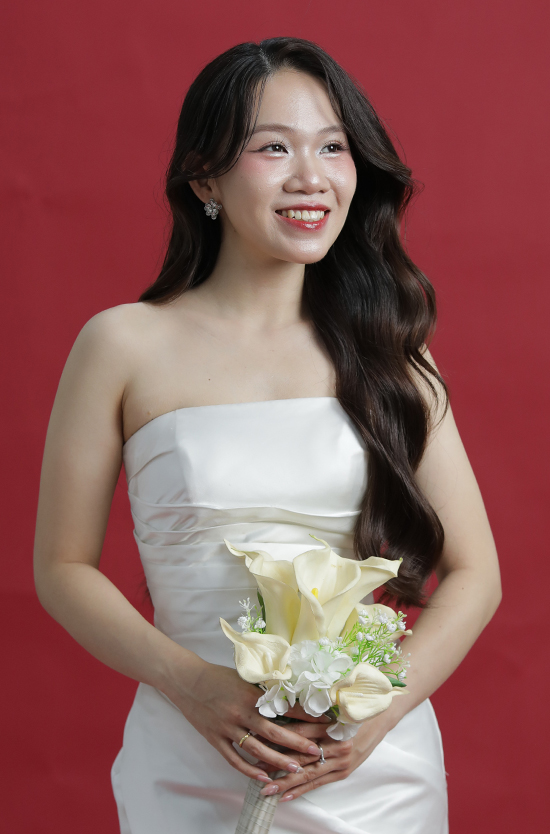
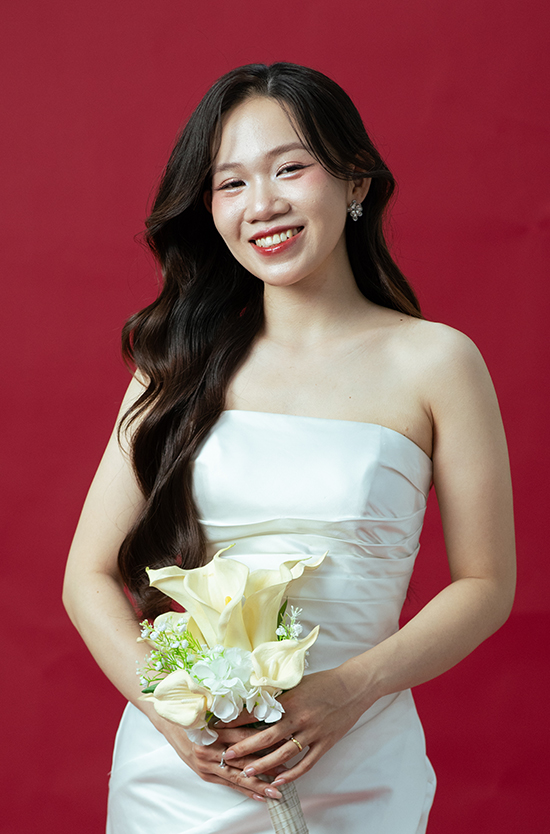
update hình, chờ nhạc nền

diff --git a/dananh-100526/index.html b/dananh-100526/index.html
@@ -6509,6 +6509,17 @@
                 >
               </div>
               <div class="service-item">
+                <strong>Song Ngư Homestay</strong>
+                <p>~5p để di chuyển đến tiệc. Đủ tiện nghi để nghỉ ngơi</p>
+                <a href="tel:0975124848" class="service-link">🤙 Đặt chỗ</a>
+                <a
+                  href="https://maps.app.goo.gl/PZRbGzu6aNqnHauk8"
+                  target="_blank"
+                  class="service-link map-btn"
+                  >📍 Vị trí</a
+                >
+              </div>
+              <div class="service-item">
                 <strong>Khách sạn Lion 11</strong>
                 <p>
                   ~30p để di chuyển đến tiệc. Cao cấp, gần trung tâm TP, Bến
@@ -7811,9 +7822,10 @@
     <title>Toggle Music với Icon Tròn Xoay</title>
     <style>
       /* Nút tròn, nền đen mờ */
+      /* Nút tròn, nền đen mờ */
       #toggle-music {
         position: fixed;
-        bottom: 20px;
+        bottom: 50px; /* Đã dời lên cao hơn xíu */
         left: 20px;
         width: 40px;
         height: 40px;
@@ -7831,6 +7843,22 @@
       }
       #toggle-music:hover {
         background: rgba(0, 0, 0, 0.5);
+      }
+
+      /* Khung chữ đếm ngược */
+      #music-countdown {
+        position: fixed;
+        bottom: 58px; /* Căn giữa so với cái nút */
+        left: 70px; /* Nằm ngay bên phải cái nút */
+        background: rgba(0, 0, 0, 0.6);
+        color: white;
+        padding: 4px 12px;
+        border-radius: 20px;
+        font-family: "Open Sans", sans-serif;
+        font-size: 12px;
+        z-index: 1000;
+        pointer-events: none; /* Không cản trở nếu lỡ bấm trúng */
+        transition: opacity 0.5s ease;
       }
 
       /* Keyframes xoay */
@@ -7873,13 +7901,18 @@
 
     <!-- Toggle button -->
     <button id="toggle-music" aria-label="Bật/tắt nhạc">🔇</button>
+    <div id="music-countdown">Nhạc nền sau 5s</div>
 
     <script>
       document.addEventListener("DOMContentLoaded", function () {
         const audio = document.getElementById("background-music");
         const btn = document.getElementById("toggle-music");
+        const countdownEl = document.getElementById("music-countdown");
 
         audio.volume = 0.8;
+        let timeLeft = 5; // Set 5 giây
+        let timer = null;
+        let isMusicHandled = false;
 
         function startRotate() {
           btn.style.animation = "rotate 2s linear infinite";
@@ -7888,8 +7921,42 @@
           btn.style.animation = "none";
         }
 
-        // Khi user click button thì toggle play/pause
+        // Bắt đầu đếm ngược
+        function startCountdown() {
+          timer = setInterval(() => {
+            timeLeft--;
+            if (countdownEl) {
+              countdownEl.textContent = `Nhạc nền sau ${timeLeft}s`;
+            }
+
+            // Khi hết 5 giây
+            if (timeLeft <= 0) {
+              clearInterval(timer);
+              if (countdownEl) countdownEl.style.opacity = "0"; // Ẩn dòng chữ đi
+
+              if (!isMusicHandled && audio.paused) {
+                audio
+                  .play()
+                  .then(() => {
+                    btn.textContent = "🔊";
+                    startRotate();
+                    isMusicHandled = true;
+                  })
+                  .catch(() => {
+                    /* Nếu khách chưa tương tác (chạm/vuốt màn hình) thì trình duyệt sẽ chặn tự động phát. 
+                     Không sao, khi khách lướt web hệ thống sẽ tự phát ở event bên dưới. */
+                  });
+              }
+            }
+          }, 1000);
+        }
+
+        // Nếu khách chủ động bấm nút LOA trước khi hết 5 giây
         btn.addEventListener("click", () => {
+          isMusicHandled = true;
+          clearInterval(timer); // Hủy đếm ngược
+          if (countdownEl) countdownEl.style.opacity = "0"; // Ẩn chữ ngay lập tức
+
           if (audio.paused) {
             audio.play();
             btn.textContent = "🔊";
@@ -7901,23 +7968,28 @@
           }
         });
 
-        // Đảm bảo autoplay khi user lần đầu tương tác (nếu cần)
-        function tryPlay() {
-          if (audio.paused) {
+        // Bắt đầu đếm ngược ngay khi web load xong
+        startCountdown();
+
+        // Dự phòng: Nếu sau 5s mà web bị trình duyệt chặn phát nhạc (do khách chưa chạm tay vào màn hình)
+        // thì ngay khi khách vuốt/chạm lần đầu, nhạc sẽ tự động nổi lên.
+        function playOnFirstInteract() {
+          if (!isMusicHandled && timeLeft <= 0 && audio.paused) {
             audio
               .play()
               .then(() => {
                 btn.textContent = "🔊";
                 startRotate();
+                isMusicHandled = true;
               })
-              .catch(() => {
-                /* bị chặn thì thôi */
-              });
+              .catch(() => {});
           }
         }
-        window.addEventListener("scroll", tryPlay, { once: true });
-        document.addEventListener("click", tryPlay, { once: true });
-        document.addEventListener("touchstart", tryPlay, { once: true });
+        window.addEventListener("scroll", playOnFirstInteract, { once: true });
+        document.addEventListener("touchstart", playOnFirstInteract, {
+          once: true,
+        });
+        document.addEventListener("click", playOnFirstInteract, { once: true });
       });
     </script>
 
@@ -8079,234 +8151,6 @@
       }
     </script>
 
-    <div id="invitation-btn" title="Mở thiệp mời">
-      <div class="btn-icon">💌</div>
-      <span>Mở Thiệp</span>
-    </div>
-
-    <div id="invitation-popup">
-      <div class="popup-overlay"></div>
-
-      <div class="scene">
-        <div class="card-wrapper" id="wedding-card">
-          <div
-            class="face-front"
-            style="background-image: url(&quot;scr/img/thiep_truoc.jpg&quot;)"
-          >
-            <div class="click-hint">Chạm để lật mặt sau 👉</div>
-          </div>
-
-          <div class="face-back">
-            <div
-              class="inner-mid"
-              style="background-image: url(&quot;scr/img/thiep_trong.jpg&quot;)"
-            ></div>
-
-            <div class="flap bottom-panel">
-              <div
-                class="flap-face flap-outer"
-                style="background-image: url(&quot;scr/img/thiep_sau.jpg&quot;)"
-              ></div>
-              <div
-                class="flap-face flap-inner"
-                style="
-                  background-image: url(&quot;scr/img/thiep_trong.jpg&quot;);
-                "
-              ></div>
-            </div>
-
-            <div class="flap top-flap">
-              <div
-                class="flap-face flap-outer"
-                style="
-                  background-image: url(&quot;scr/img/thiep_truoc_nap.jpg&quot;);
-                "
-              ></div>
-              <div
-                class="flap-face flap-inner"
-                style="
-                  background-image: url(&quot;scr/img/thiep_trong.jpg&quot;);
-                "
-              ></div>
-            </div>
-          </div>
-        </div>
-      </div>
-
-      <button class="close-popup" id="close-invitation">&times;</button>
-    </div>
-
-    <style>
-      /* CSS CƠ BẢN */
-      #invitation-btn {
-        position: fixed;
-        bottom: 80px;
-        right: 20px;
-        z-index: 999;
-        background: rgb(128, 0, 32);
-        color: white;
-        padding: 10px 20px;
-        border-radius: 50px;
-        display: flex;
-        align-items: center;
-        gap: 10px;
-        cursor: pointer;
-        box-shadow: 0 4px 15px rgba(0, 0, 0, 0.3);
-        font-family: sans-serif;
-        font-weight: bold;
-      }
-
-      #invitation-popup {
-        position: fixed;
-        top: 0;
-        left: 0;
-        width: 100vw;
-        height: 100vh;
-        display: none;
-        justify-content: center;
-        align-items: center;
-        z-index: 10000;
-        transition: opacity 0.5s ease;
-      }
-
-      .popup-overlay {
-        position: absolute;
-        width: 100%;
-        height: 100%;
-        background: rgba(0, 0, 0, 0.85);
-        backdrop-filter: blur(4px);
-      }
-
-      /* KHÔNG GIAN 3D */
-      .scene {
-        width: 340px;
-        height: 240px;
-        perspective: 1500px;
-        z-index: 10001;
-      }
-      .card-wrapper {
-        width: 100%;
-        height: 100%;
-        position: relative;
-        transform-style: preserve-3d;
-        transition: transform 0.8s cubic-bezier(0.4, 0, 0.2, 1);
-      }
-
-      .face-front,
-      .face-back {
-        position: absolute;
-        width: 100%;
-        height: 100%;
-        backface-visibility: hidden;
-        border-radius: 4px;
-      }
-      .face-front {
-        background-size: cover;
-        z-index: 2;
-        box-shadow: 0 10px 30px rgba(0, 0, 0, 0.5);
-      }
-      .face-back {
-        transform: rotateY(180deg);
-        transform-style: preserve-3d;
-      }
-
-      .card-wrapper.flipped {
-        transform: rotateY(180deg);
-      }
-
-      /* MẶT TRONG GIỮA */
-      .inner-mid {
-        position: absolute;
-        width: 100%;
-        height: 100%;
-        background-size: 100% 250%;
-        background-position: center; /* 1/2.5 */
-      }
-
-      /* CÁC CÁNH GẬP */
-      .flap {
-        position: absolute;
-        width: 100%;
-        left: 0;
-        top: 0;
-        transform-style: preserve-3d;
-        transition: transform 0.8s cubic-bezier(0.4, 0, 0.2, 1);
-      }
-
-      .top-flap {
-        height: 50%;
-        transform-origin: top;
-        z-index: 10;
-      } /* Nắp đè lên */
-      .bottom-panel {
-        height: 100%;
-        transform-origin: bottom;
-        z-index: 5;
-      }
-
-      /* Trạng thái đóng (sau khi vừa xoay 180 độ) */
-      .card-wrapper.flipped .top-flap {
-        transform: rotateX(180deg);
-      }
-      .card-wrapper.flipped .bottom-panel {
-        transform: rotateX(-180deg);
-      }
-
-      /* Trạng thái bung ra (Opened) */
-      .card-wrapper.opened .top-flap {
-        transform: rotateX(0deg);
-      }
-      .card-wrapper.opened .bottom-panel {
-        transform: rotateX(0deg);
-      }
-
-      .flap-face {
-        position: absolute;
-        width: 100%;
-        height: 100%;
-        backface-visibility: hidden;
-      }
-
-      /* Background cắt ảnh dọc (0.5 - 1 - 1) */
-      .top-flap .flap-inner {
-        background-size: 100% 500%;
-        background-position: top;
-      }
-      .bottom-panel .flap-inner {
-        background-size: 100% 250%;
-        background-position: bottom;
-      }
-
-      /* Ảnh mặt ngoài khi đang gập */
-      .flap-outer {
-        transform: rotateX(180deg);
-        background-size: cover;
-      }
-
-      /* Nút X và Hint */
-      .close-popup {
-        position: absolute;
-        top: -45px;
-        right: 0;
-        background: none;
-        border: none;
-        color: white;
-        font-size: 40px;
-        cursor: pointer;
-      }
-      .click-hint {
-        position: absolute;
-        bottom: 10px;
-        right: 10px;
-        background: rgba(128, 0, 32, 0.8);
-        color: white;
-        padding: 4px 10px;
-        border-radius: 20px;
-        font-size: 10px;
-        animation: pulse 1.5s infinite;
-      }
-    </style>
-
     <script>
       document.addEventListener("DOMContentLoaded", function () {
         const btn = document.getElementById("invitation-btn");
@@ -8357,6 +8201,5 @@
         overlay.onclick = closeInvitation;
       });
     </script>
-    
   </body>
 </html>
